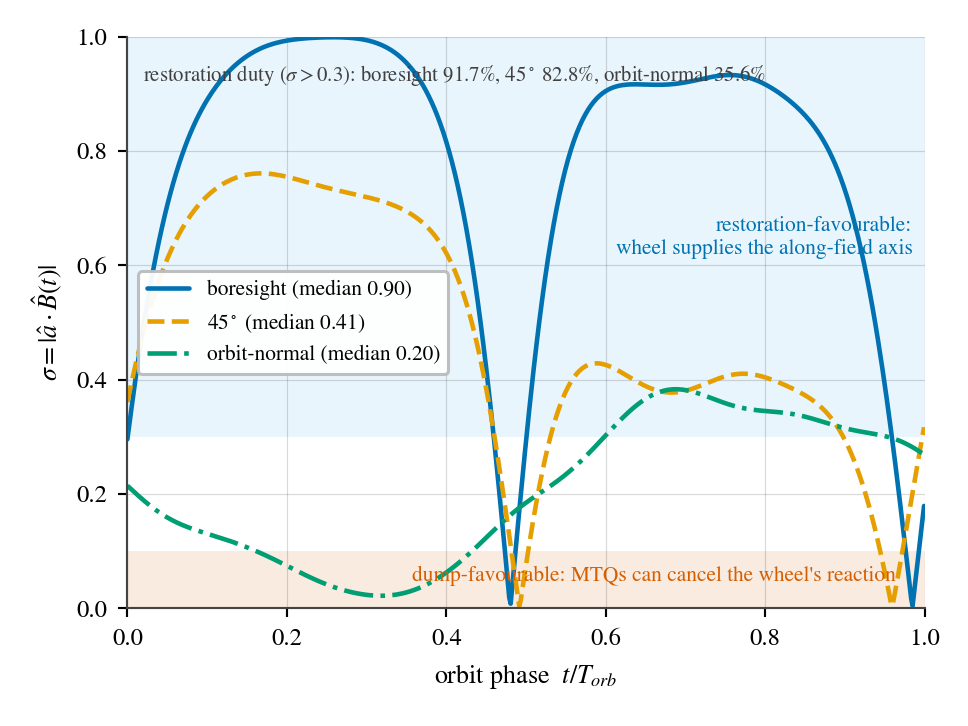
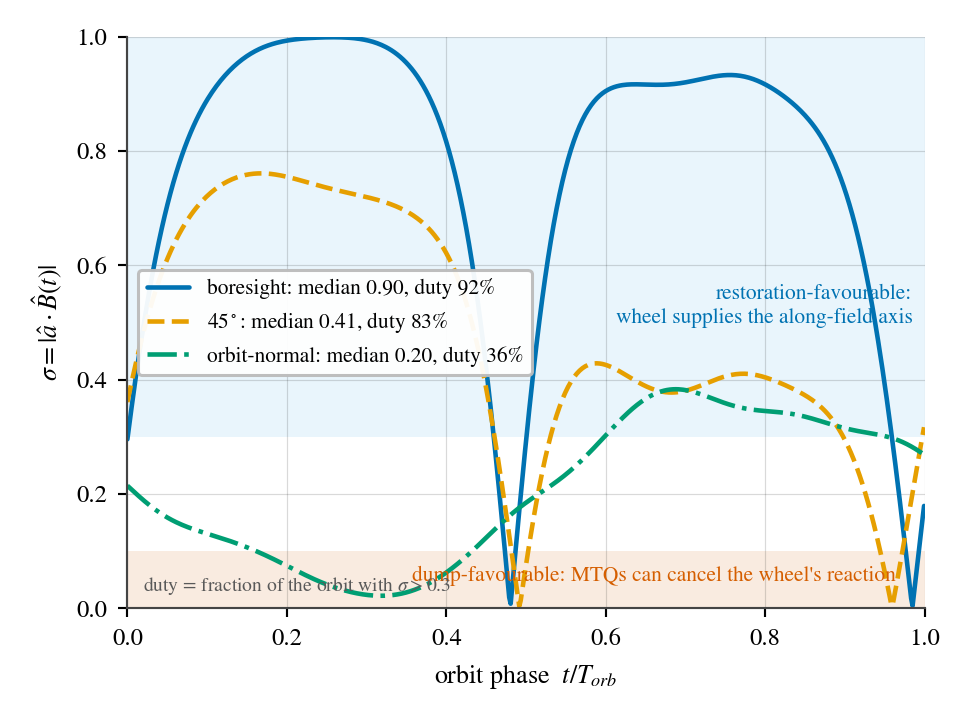
fig(IAC): fig1 duty numbers folded into legend labels (floating text removed), band label re-homed

diff --git a/papers/IAC_1RW/fig12_supporting.py b/papers/IAC_1RW/fig12_supporting.py
@@ -52,7 +52,7 @@ def fig1():
     fig, ax = plt.subplots(figsize=(4.4, 3.3))
     ax.axhspan(0.3, 1.0, color=OI["sky"], alpha=0.13, lw=0)
     ax.axhspan(0.0, 0.1, color=OI["verm"], alpha=0.12, lw=0)
-    ax.text(0.985, 0.62, "restoration-favourable:\nwheel supplies the along-field axis",
+    ax.text(0.985, 0.50, "restoration-favourable:\nwheel supplies the along-field axis",
             fontsize=7, ha="right", color=OI["blue"], transform=ax.get_yaxis_transform())
     ax.text(0.66, 0.048, "dump-favourable: MTQs can cancel the wheel's reaction",
             fontsize=7, ha="center", color=OI["verm"], transform=ax.get_yaxis_transform())
@@ -64,12 +64,10 @@ def fig1():
                     "orbit-normal": "orbit_normal"}[name]]
         assert abs(med - jref["median_sigma"]) < 0.06, (name, med, jref["median_sigma"])
         ax.plot(x, sig, color=col, ls=lsty, lw=1.5,
-                label=f"{name} (median {jref['median_sigma']:.2f})")
-    duties = ", ".join(f"{n} {100*ref[k]['restore_duty']:.1f}%" for n, k in
-                       (("boresight", "boresight"), ("45$^\\circ$", "45deg"),
-                        ("orbit-normal", "orbit_normal")))
-    ax.text(0.02, 0.955, f"restoration duty ($\\sigma>0.3$): {duties}",
-            fontsize=6.8, transform=ax.transAxes, color="0.25", va="top")
+                label=f"{name}: median {jref['median_sigma']:.2f}, "
+                      f"duty {100*jref['restore_duty']:.0f}%")
+    ax.text(0.02, 0.02, "duty = fraction of the orbit with $\\sigma>0.3$",
+            fontsize=6.4, transform=ax.transAxes, color="0.35", va="bottom")
 
     ax.set_xlim(0, 1); ax.set_ylim(0, 1)
     ax.set_xlabel("orbit phase  $t/T_{orb}$")
